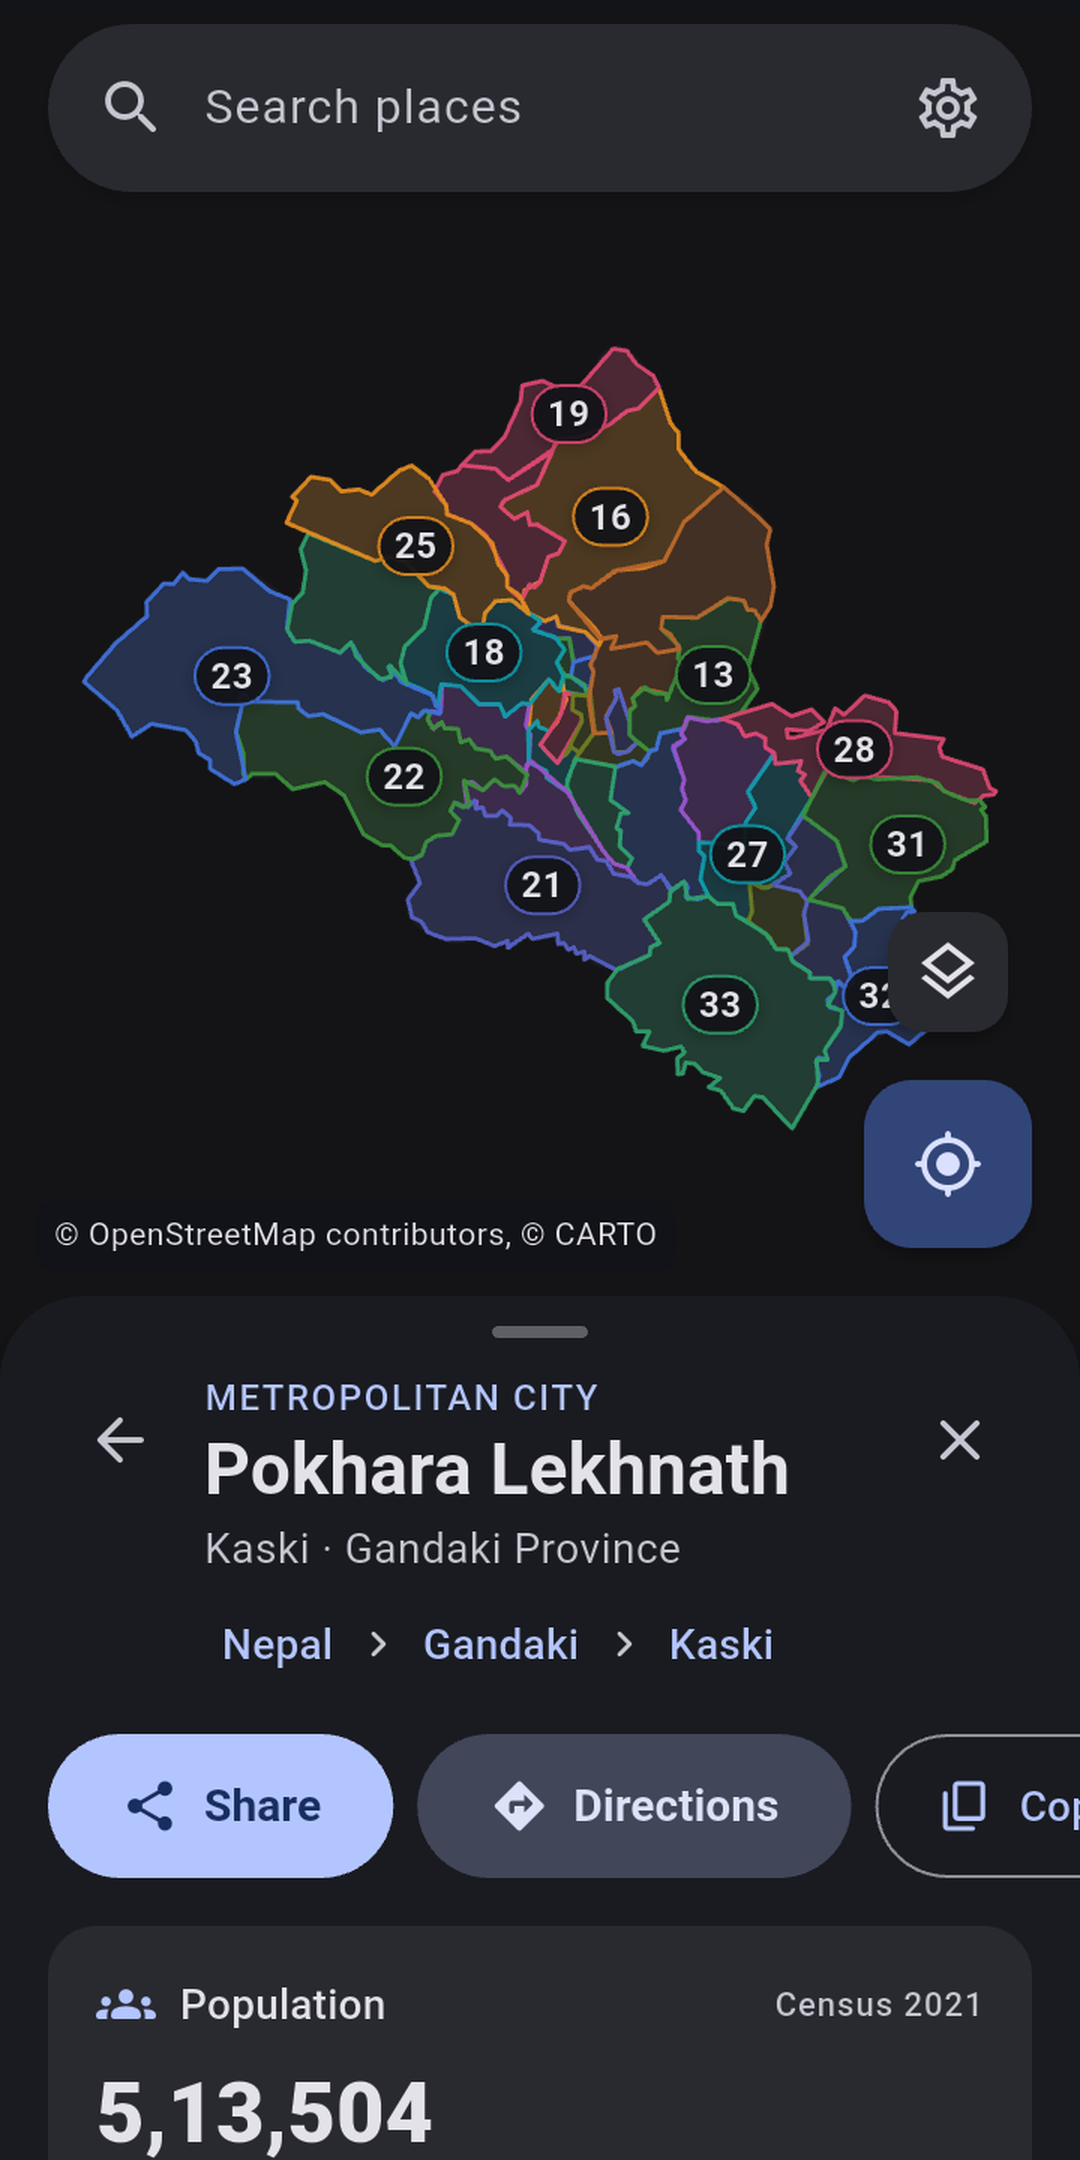
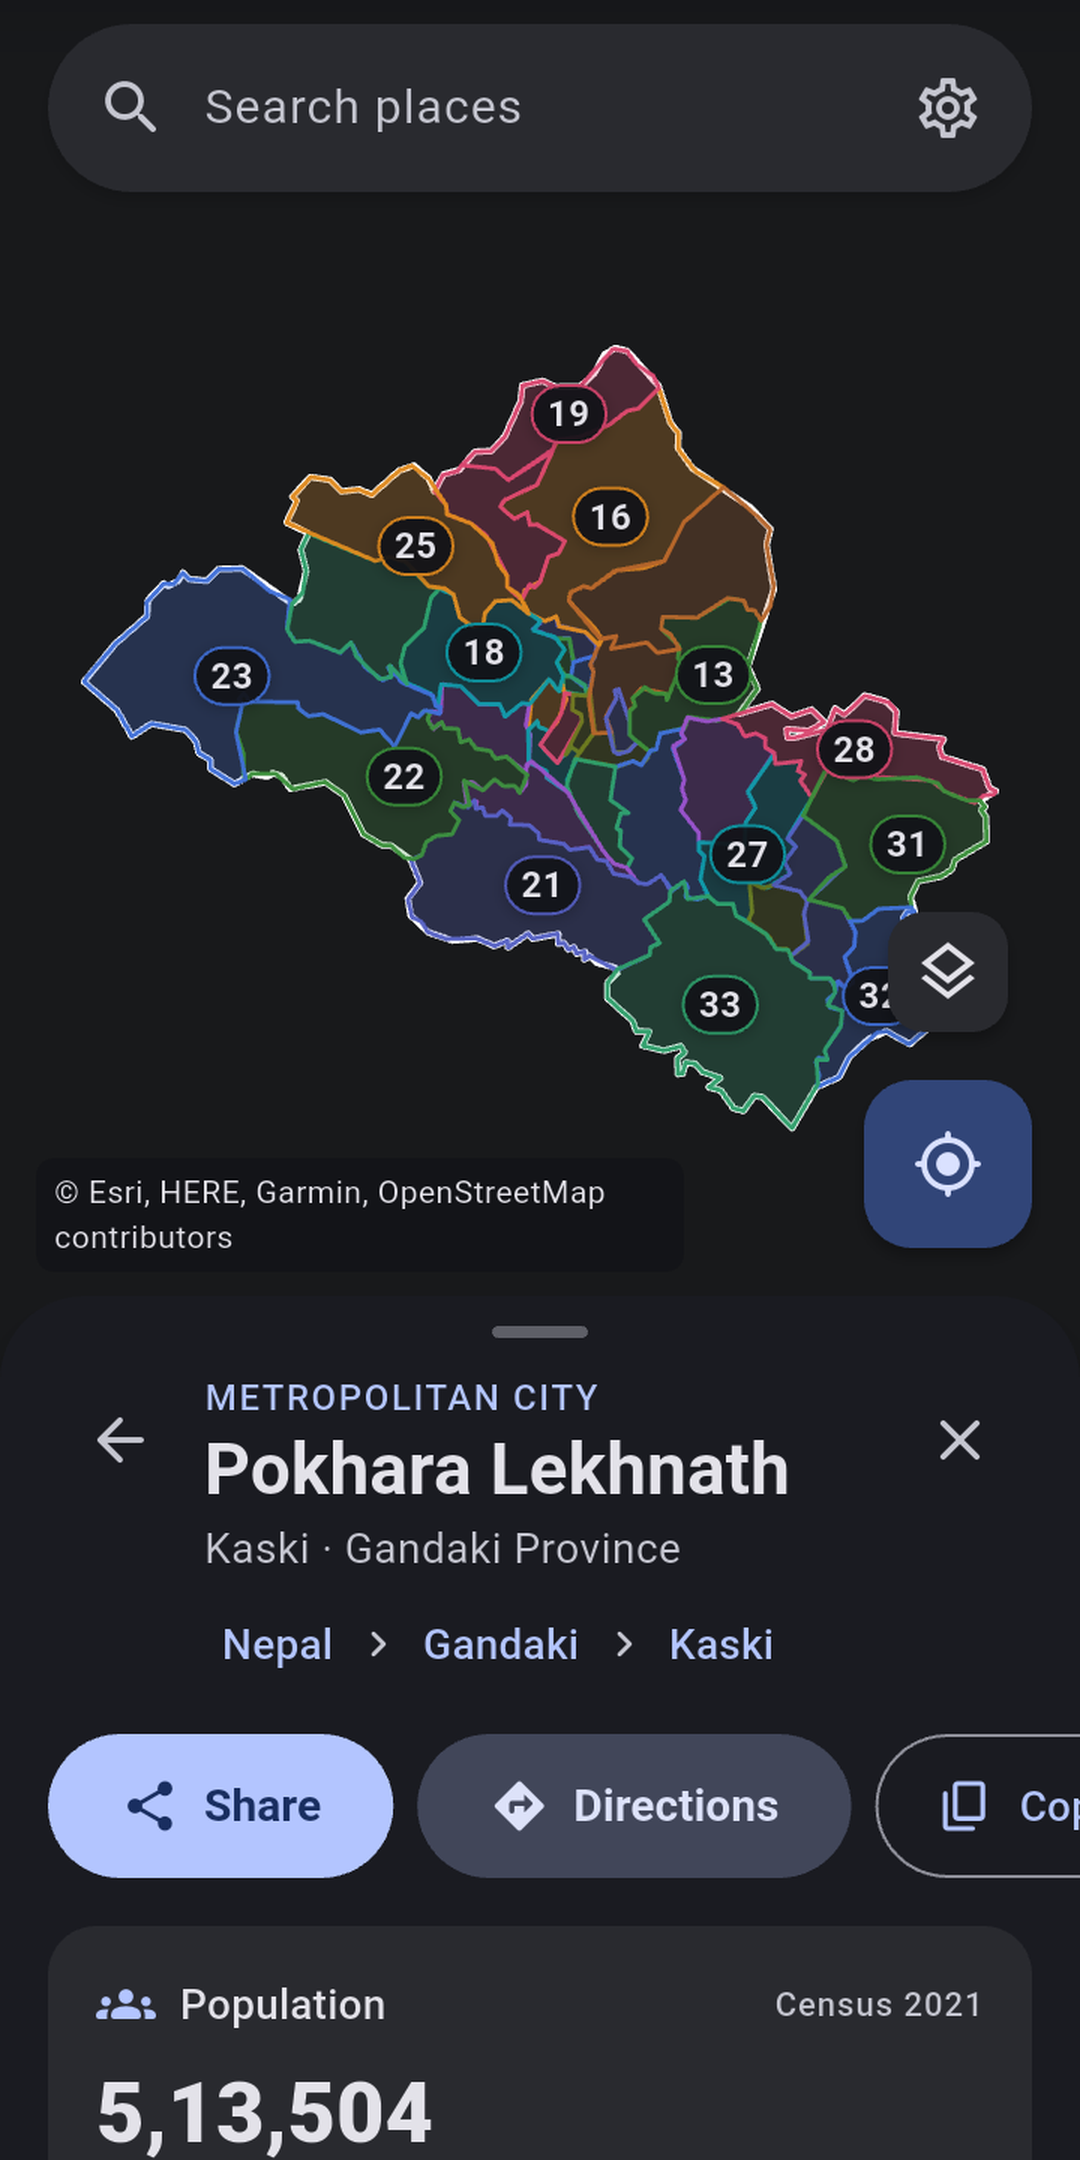
Use key-free Esri light/dark maps; credit Survey Department for boundaries
CARTO basemaps now return 'API key required' tiles. Light and dark
styles (and dark auto mode) now use Esri's gray canvas base with its
label layer on top.

Credit the Survey Department (Napi Bibhag), Government of Nepal as the
boundary source in the app, store listing, privacy policy and README;
link the About screen to dos.gov.np. Refresh the dark-theme screenshot.

diff --git a/lib/l10n/app_localizations_ne.dart b/lib/l10n/app_localizations_ne.dart
@@ -466,7 +466,7 @@ class AppLocalizationsNe extends AppLocalizations {
 
   @override
   String get sourceBoundariesDesc =>
-      'नेपालका प्रदेश, जिल्ला, स्थानीय तह र वडाका सीमाहरू, maps.sandeepkafle.com.np बाट';
+      'प्रदेश, जिल्ला, स्थानीय तह र वडाका सीमाहरू नापी विभाग, नेपाल सरकारबाट। maps.sandeepkafle.com.np मार्फत उपलब्ध';
 
   @override
   String get sourceCensus => 'जनसंख्या';
@@ -480,7 +480,7 @@ class AppLocalizationsNe extends AppLocalizations {
 
   @override
   String get sourceMapsDesc =>
-      '© OpenStreetMap योगदानकर्ताहरू, CARTO, OpenTopoMap, Esri';
+      '© OpenStreetMap योगदानकर्ताहरू, OpenTopoMap, Esri';
 
   @override
   String privacyUpdated(String date) {
@@ -503,7 +503,7 @@ class AppLocalizationsNe extends AppLocalizations {
 
   @override
   String get privacyNetworkBody =>
-      'नक्सा र सीमाहरू देखाउन एपले तपाईंले छानेको नक्सा प्रदायक (OpenStreetMap, CARTO, OpenTopoMap वा Esri) बाट नक्साका टाइलहरू, maps.sandeepkafle.com.np बाट सीमाका फाइलहरू, र राष्ट्रिय तथ्यांक कार्यालयको जनगणना सेवा (censusapi.cbs.gov.np) बाट जनसंख्याका विवरणहरू डाउनलोड गर्छ। जुनसुकै वेबसाइटजस्तै, यी सर्भरहरूले तपाईंको IP ठेगाना र कुन नक्सा क्षेत्र वा पालिका मागिएको हो भन्ने देख्न सक्छन्। उनीहरूले तपाईंको GPS स्थान पाउँदैनन्।';
+      'नक्सा र सीमाहरू देखाउन एपले तपाईंले छानेको नक्सा प्रदायक (OpenStreetMap, OpenTopoMap वा Esri) बाट नक्साका टाइलहरू, maps.sandeepkafle.com.np बाट नापी विभागका सीमाका फाइलहरू, र राष्ट्रिय तथ्यांक कार्यालयको जनगणना सेवा (censusapi.cbs.gov.np) बाट जनसंख्याका विवरणहरू डाउनलोड गर्छ। जुनसुकै वेबसाइटजस्तै, यी सर्भरहरूले तपाईंको IP ठेगाना र कुन नक्सा क्षेत्र वा पालिका मागिएको हो भन्ने देख्न सक्छन्। उनीहरूले तपाईंको GPS स्थान पाउँदैनन्।';
 
   @override
   String get privacyStorageTitle => 'फोनमा सुरक्षित हुने डाटा';

diff --git a/lib/ui/core/map_styles.dart b/lib/ui/core/map_styles.dart
@@ -9,6 +9,7 @@ class TileSource {
     required this.urlTemplate,
     required this.attribution,
     required this.attributionUrl,
+    this.labelsUrlTemplate,
     this.subdomains = const [],
     this.maxNativeZoom = 19,
     this.retina = false,
@@ -16,6 +17,9 @@ class TileSource {
   });
 
   final String urlTemplate;
+
+  /// Optional transparent label layer drawn above the boundary overlays.
+  final String? labelsUrlTemplate;
   final String attribution;
   final String attributionUrl;
   final List<String> subdomains;
@@ -34,23 +38,31 @@ const _osm = TileSource(
   attributionUrl: 'https://www.openstreetmap.org/copyright',
 );
 
-const _cartoLight = TileSource(
+// Esri gray canvas: key-free light/dark base maps with a separate label
+// layer. (CARTO basemaps now require an API key.)
+const _esriCredit = 'Esri, HERE, Garmin, OpenStreetMap contributors';
+const _esriTerms =
+    'https://www.esri.com/en-us/legal/terms/full-master-agreement';
+
+const _grayLight = TileSource(
   urlTemplate:
-      'https://{s}.basemaps.cartocdn.com/rastertiles/light_all/{z}/{x}/{y}{r}.png',
-  subdomains: ['a', 'b', 'c', 'd'],
-  retina: true,
-  attribution: 'OpenStreetMap contributors, © CARTO',
-  attributionUrl: 'https://carto.com/attributions',
+      'https://server.arcgisonline.com/ArcGIS/rest/services/Canvas/World_Light_Gray_Base/MapServer/tile/{z}/{y}/{x}',
+  labelsUrlTemplate:
+      'https://server.arcgisonline.com/ArcGIS/rest/services/Canvas/World_Light_Gray_Reference/MapServer/tile/{z}/{y}/{x}',
+  maxNativeZoom: 16,
+  attribution: _esriCredit,
+  attributionUrl: _esriTerms,
 );
 
-const _cartoDark = TileSource(
+const _grayDark = TileSource(
   urlTemplate:
-      'https://{s}.basemaps.cartocdn.com/rastertiles/dark_all/{z}/{x}/{y}{r}.png',
-  subdomains: ['a', 'b', 'c', 'd'],
-  retina: true,
+      'https://server.arcgisonline.com/ArcGIS/rest/services/Canvas/World_Dark_Gray_Base/MapServer/tile/{z}/{y}/{x}',
+  labelsUrlTemplate:
+      'https://server.arcgisonline.com/ArcGIS/rest/services/Canvas/World_Dark_Gray_Reference/MapServer/tile/{z}/{y}/{x}',
+  maxNativeZoom: 16,
   isDark: true,
-  attribution: 'OpenStreetMap contributors, © CARTO',
-  attributionUrl: 'https://carto.com/attributions',
+  attribution: _esriCredit,
+  attributionUrl: _esriTerms,
 );
 
 const _topo = TileSource(
@@ -71,10 +83,10 @@ const _satellite = TileSource(
 
 TileSource tileSourceFor(MapStyle style, Brightness brightness) =>
     switch (style) {
-      MapStyle.auto => brightness == Brightness.dark ? _cartoDark : _osm,
+      MapStyle.auto => brightness == Brightness.dark ? _grayDark : _osm,
       MapStyle.streets => _osm,
-      MapStyle.light => _cartoLight,
-      MapStyle.dark => _cartoDark,
+      MapStyle.light => _grayLight,
+      MapStyle.dark => _grayDark,
       MapStyle.terrain => _topo,
       MapStyle.satellite => _satellite,
     };

diff --git a/lib/l10n/app_localizations.dart b/lib/l10n/app_localizations.dart
@@ -857,7 +857,7 @@ abstract class AppLocalizations {
   /// No description provided for @sourceBoundariesDesc.
   ///
   /// In en, this message translates to:
-  /// **'Province, district, local level and ward boundaries of Nepal, served from maps.sandeepkafle.com.np'**
+  /// **'Province, district, local level and ward boundaries from the Survey Department (Napi Bibhag), Government of Nepal. Served via maps.sandeepkafle.com.np'**
   String get sourceBoundariesDesc;
 
   /// No description provided for @sourceCensus.
@@ -881,7 +881,7 @@ abstract class AppLocalizations {
   /// No description provided for @sourceMapsDesc.
   ///
   /// In en, this message translates to:
-  /// **'© OpenStreetMap contributors, CARTO, OpenTopoMap, Esri'**
+  /// **'© OpenStreetMap contributors, OpenTopoMap, Esri'**
   String get sourceMapsDesc;
 
   /// No description provided for @privacyUpdated.
@@ -917,7 +917,7 @@ abstract class AppLocalizations {
   /// No description provided for @privacyNetworkBody.
   ///
   /// In en, this message translates to:
-  /// **'To show maps and boundaries, the app downloads map tiles from the map provider you choose (OpenStreetMap, CARTO, OpenTopoMap or Esri), boundary files from maps.sandeepkafle.com.np, and population figures from the National Statistics Office census service (censusapi.cbs.gov.np). Like any website, these servers can see your IP address and which map area or municipality was requested. They do not receive your GPS location.'**
+  /// **'To show maps and boundaries, the app downloads map tiles from the map provider you choose (OpenStreetMap, OpenTopoMap or Esri), Survey Department boundary files from maps.sandeepkafle.com.np, and population figures from the National Statistics Office census service (censusapi.cbs.gov.np). Like any website, these servers can see your IP address and which map area or municipality was requested. They do not receive your GPS location.'**
   String get privacyNetworkBody;
 
   /// No description provided for @privacyStorageTitle.

diff --git a/lib/l10n/app_localizations_en.dart b/lib/l10n/app_localizations_en.dart
@@ -467,7 +467,7 @@ class AppLocalizationsEn extends AppLocalizations {
 
   @override
   String get sourceBoundariesDesc =>
-      'Province, district, local level and ward boundaries of Nepal, served from maps.sandeepkafle.com.np';
+      'Province, district, local level and ward boundaries from the Survey Department (Napi Bibhag), Government of Nepal. Served via maps.sandeepkafle.com.np';
 
   @override
   String get sourceCensus => 'Population';
@@ -481,7 +481,7 @@ class AppLocalizationsEn extends AppLocalizations {
 
   @override
   String get sourceMapsDesc =>
-      '© OpenStreetMap contributors, CARTO, OpenTopoMap, Esri';
+      '© OpenStreetMap contributors, OpenTopoMap, Esri';
 
   @override
   String privacyUpdated(String date) {
@@ -504,7 +504,7 @@ class AppLocalizationsEn extends AppLocalizations {
 
   @override
   String get privacyNetworkBody =>
-      'To show maps and boundaries, the app downloads map tiles from the map provider you choose (OpenStreetMap, CARTO, OpenTopoMap or Esri), boundary files from maps.sandeepkafle.com.np, and population figures from the National Statistics Office census service (censusapi.cbs.gov.np). Like any website, these servers can see your IP address and which map area or municipality was requested. They do not receive your GPS location.';
+      'To show maps and boundaries, the app downloads map tiles from the map provider you choose (OpenStreetMap, OpenTopoMap or Esri), Survey Department boundary files from maps.sandeepkafle.com.np, and population figures from the National Statistics Office census service (censusapi.cbs.gov.np). Like any website, these servers can see your IP address and which map area or municipality was requested. They do not receive your GPS location.';
 
   @override
   String get privacyStorageTitle => 'Data stored on your phone';

diff --git a/store/privacy_policy.html b/store/privacy_policy.html
@@ -24,7 +24,7 @@
   <p>If you allow it, the app reads your device's location to find the ward you are in. This happens entirely on your phone. Your location is not sent to us or anyone else, and it is not stored after the app closes. You can turn location access off at any time in your phone's settings; you can still use the app by tapping the map or searching.</p>
 
   <h2>Internet requests</h2>
-  <p>To show maps and boundaries, the app downloads map tiles from the map provider you choose (OpenStreetMap, CARTO, OpenTopoMap or Esri), boundary files from maps.sandeepkafle.com.np, and population figures from the National Statistics Office census service (censusapi.cbs.gov.np). Like any website, these servers can see your IP address and which map area or municipality was requested. They do not receive your GPS location.</p>
+  <p>To show maps and boundaries, the app downloads map tiles from the map provider you choose (OpenStreetMap, OpenTopoMap or Esri), Survey Department boundary files from maps.sandeepkafle.com.np, and population figures from the National Statistics Office census service (censusapi.cbs.gov.np). Like any website, these servers can see your IP address and which map area or municipality was requested. They do not receive your GPS location.</p>
 
   <h2>Data stored on your phone</h2>
   <p>The app saves downloaded maps and boundaries, your settings and a short list of recently viewed places on your phone so it works faster and offline. This data never leaves your phone (your settings may be included in your own Android device backup). You can delete it in Settings, or by uninstalling the app.</p>

diff --git a/lib/ui/features/map/views/map_screen.dart b/lib/ui/features/map/views/map_screen.dart
@@ -584,6 +584,13 @@ class _MapScreenState extends State<MapScreen> with TickerProviderStateMixin {
             polygonLabels: false,
           ),
         PolygonLayer(polygons: _areaPolygons, polygonLabels: false),
+        if (source.labelsUrlTemplate != null)
+          TileLayer(
+            key: ValueKey(source.labelsUrlTemplate),
+            urlTemplate: source.labelsUrlTemplate,
+            maxNativeZoom: source.maxNativeZoom,
+            userAgentPackageName: 'com.tapaiko.tapaiko_ward',
+          ),
         if (_wardPolygons.isNotEmpty)
           PolygonLayer(polygons: _wardPolygons, polygonLabels: false),
         if (vm.userLocation != null)

diff --git a/lib/ui/features/settings/views/about_screen.dart b/lib/ui/features/settings/views/about_screen.dart
@@ -64,7 +64,7 @@ class AboutScreen extends StatelessWidget {
             icon: Icons.map_outlined,
             title: l10n.sourceBoundaries,
             body: l10n.sourceBoundariesDesc,
-            url: 'https://maps.sandeepkafle.com.np',
+            url: 'https://dos.gov.np',
           ),
           _Source(
             icon: Icons.groups_outlined,

diff --git a/store/listing.md b/store/listing.md
@@ -32,9 +32,9 @@ PRIVATE BY DESIGN
 Your location is used only on your phone. No account, no ads, no tracking.
 
 DATA SOURCES
-• Administrative boundaries: https://maps.sandeepkafle.com.np
+• Administrative boundaries: Survey Department (Napi Bibhag), Government of Nepal — https://dos.gov.np (served via https://maps.sandeepkafle.com.np)
 • Population: National Population and Housing Census 2021, National Statistics Office, Nepal — https://censusnepal.cbs.gov.np
-• Base maps: © OpenStreetMap contributors (https://www.openstreetmap.org/copyright), CARTO, OpenTopoMap, Esri
+• Base maps: © OpenStreetMap contributors (https://www.openstreetmap.org/copyright), OpenTopoMap, Esri
 
 DISCLAIMER
 Tapaiko Ward is an independent app. It is not affiliated with, endorsed by, or representing the Government of Nepal or any government entity. Boundaries and population figures come from public sources and are for reference only; they are not an official survey or legal record.
@@ -61,9 +61,9 @@ Tapaiko Ward is an independent app. It is not affiliated with, endorsed by, or r
 तपाईंको स्थान फोनभित्र मात्र प्रयोग हुन्छ। खाता, विज्ञापन वा ट्र्याकिङ छैन।
 
 डाटाका स्रोत
-• प्रशासनिक सीमा: https://maps.sandeepkafle.com.np
+• प्रशासनिक सीमा: नापी विभाग, नेपाल सरकार — https://dos.gov.np
 • जनसंख्या: राष्ट्रिय जनगणना २०७८, राष्ट्रिय तथ्यांक कार्यालय — https://censusnepal.cbs.gov.np
-• आधार नक्सा: © OpenStreetMap योगदानकर्ताहरू, CARTO, OpenTopoMap, Esri
+• आधार नक्सा: © OpenStreetMap योगदानकर्ताहरू, OpenTopoMap, Esri
 
 अस्वीकरण
 तपाईंको वडा एक स्वतन्त्र एप हो। यो नेपाल सरकार वा कुनै सरकारी निकायसँग सम्बद्ध छैन। सीमा र जनसंख्याका विवरण सन्दर्भका लागि मात्र हुन्।

diff --git a/README.md b/README.md
@@ -38,7 +38,8 @@ tool/        build_boundary_assets.py, build_icons.py
 
 ## Data
 
-Boundary files come from `https://maps.sandeepkafle.com.np/data/`
+Boundaries are from the Survey Department (Napi Bibhag), Government of Nepal,
+served from `https://maps.sandeepkafle.com.np/data/`
 (`locallevels/{district}.json`, `wards/{district}_{locallevel}.json`).
 Identification uses the bundled district outlines to pick candidates, then
 the full-detail municipality and ward files for exact containment, so the
